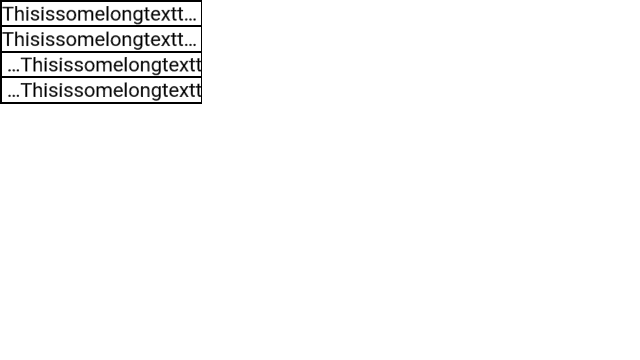
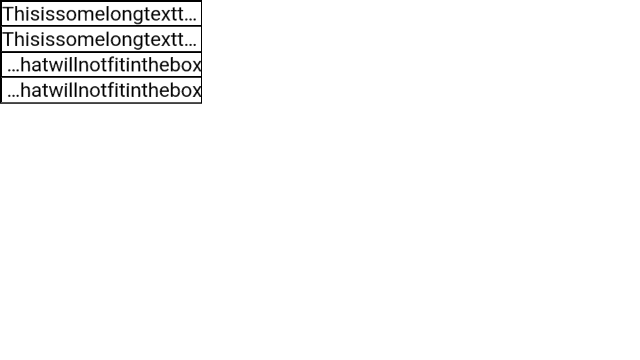
Fix RTL with text-overflow: ellipsis
This fixes the issue where overflow text for dir=rtl truncates
the end of the segment, when it should truncate the start. This
also rebaselines any tests affected by this issue, bringing
Cobalt's expected output in line with Chrome's, and makes sure
that there are no additional regressions.

b/165046947

(cherry picked from commit 2ff3badaeccf9a5a6ba6a1fb0d2f6888f2c005ff)

Changed region(s): [[0.0, 0.0917, 0.3125, 0.3056], [0.1875, 0.0306, 0.2812, 0.0611]]

diff --git a/cobalt/layout/paragraph.cc b/cobalt/layout/paragraph.cc
@@ -125,17 +125,22 @@ int32 Paragraph::AppendCodePoint(CodePoint code_point) {
   return start_position;
 }
 
-bool Paragraph::FindBreakPosition(const scoped_refptr<dom::FontList>& used_font,
-                                  int32 start_position, int32 end_position,
-                                  LayoutUnit available_width,
-                                  bool should_collapse_trailing_white_space,
-                                  bool allow_overflow,
-                                  Paragraph::BreakPolicy break_policy,
-                                  int32* break_position,
-                                  LayoutUnit* break_width) {
+bool Paragraph::FindBreakPosition(
+    BaseDirection direction, bool should_attempt_to_wrap,
+    const scoped_refptr<dom::FontList>& used_font, int32 start_position,
+    int32 end_position, LayoutUnit available_width,
+    bool should_collapse_trailing_white_space, bool allow_overflow,
+    Paragraph::BreakPolicy break_policy, int32* break_position,
+    LayoutUnit* break_width) {
   DCHECK(is_closed_);
 
-  *break_position = start_position;
+  DCHECK(direction == base_direction_);
+  if (AreInlineAndScriptDirectionsTheSame(direction, start_position) ||
+      should_attempt_to_wrap) {
+    *break_position = start_position;
+  } else {
+    *break_position = end_position;
+  }
   *break_width = LayoutUnit();
 
   // If overflow isn't allowed and there is no available width, then there is
@@ -165,9 +170,10 @@ bool Paragraph::FindBreakPosition(const scoped_refptr<dom::FontList>& used_font,
     // |break_width| will be updated with the position of the last available
     // break position.
     FindIteratorBreakPosition(
-        used_font, line_break_iterator_, start_position, end_position,
-        available_width, should_collapse_trailing_white_space,
-        allow_normal_overflow, break_position, break_width);
+        direction, should_attempt_to_wrap, used_font, line_break_iterator_,
+        start_position, end_position, available_width,
+        should_collapse_trailing_white_space, allow_normal_overflow,
+        break_position, break_width);
   }
 
   // If break word is the break policy, attempt to break unbreakable "words" at
@@ -177,20 +183,39 @@ bool Paragraph::FindBreakPosition(const scoped_refptr<dom::FontList>& used_font,
   if (break_policy == kBreakPolicyBreakWord) {
     // Only continue allowing overflow if the break position has not moved from
     // start, meaning that no normal break positions were found.
-    allow_overflow = allow_overflow && (*break_position == start_position);
+    if (AreInlineAndScriptDirectionsTheSame(direction, start_position) ||
+        should_attempt_to_wrap) {
+      allow_overflow = allow_overflow && (*break_position == start_position);
+    } else {
+      allow_overflow = allow_overflow && (*break_position == end_position);
+    }
 
     // Find the last available break-word break position. |break_position| and
     // |break_width| will be updated with the position of the last available
     // break position. The search begins at the location of the last normal
     // break position that fit within the available width.
-    FindIteratorBreakPosition(
-        used_font, character_break_iterator_, *break_position, end_position,
-        available_width, false, allow_overflow, break_position, break_width);
+    if (AreInlineAndScriptDirectionsTheSame(direction, start_position) ||
+        should_attempt_to_wrap) {
+      FindIteratorBreakPosition(direction, should_attempt_to_wrap, used_font,
+                                character_break_iterator_, *break_position,
+                                end_position, available_width, false,
+                                allow_overflow, break_position, break_width);
+    } else {
+      FindIteratorBreakPosition(direction, should_attempt_to_wrap, used_font,
+                                character_break_iterator_, start_position,
+                                *break_position, available_width, false,
+                                allow_overflow, break_position, break_width);
+    }
   }
 
   // No usable break position was found if the break position has not moved
   // from the start position.
-  return *break_position > start_position;
+  if (AreInlineAndScriptDirectionsTheSame(direction, start_position) ||
+      should_attempt_to_wrap) {
+    return *break_position > start_position;
+  } else {
+    return *break_position < end_position;
+  }
 }
 
 int32 Paragraph::GetNextBreakPosition(int32 position,
@@ -268,6 +293,12 @@ bool Paragraph::IsRTL(int32 position) const {
   return (GetBidiLevel(position) % 2) == 1;
 }
 
+bool Paragraph::AreInlineAndScriptDirectionsTheSame(BaseDirection direction,
+                                                    int32 position) const {
+  return ((direction == kLeftToRightBaseDirection && !IsRTL(position)) ||
+          (direction == kRightToLeftBaseDirection && IsRTL(position)));
+}
+
 bool Paragraph::IsCollapsibleWhiteSpace(int32 position) const {
   // Only check for the space character. Other collapsible white space
   // characters will have already been converted into the space characters and
@@ -338,6 +369,7 @@ icu::BreakIterator* Paragraph::GetBreakIterator(BreakPolicy break_policy) {
 }
 
 void Paragraph::FindIteratorBreakPosition(
+    BaseDirection direction, bool should_attempt_to_wrap,
     const scoped_refptr<dom::FontList>& used_font,
     icu::BreakIterator* const break_iterator, int32 start_position,
     int32 end_position, LayoutUnit available_width,
@@ -347,19 +379,37 @@ void Paragraph::FindIteratorBreakPosition(
   // position. Continue until TryIncludeSegmentWithinAvailableWidth() returns
   // false, indicating that no more segments can be included.
   break_iterator->setText(unicode_text_);
-  for (int32 segment_end = break_iterator->following(start_position);
-       segment_end != icu::BreakIterator::DONE && segment_end < end_position;
-       segment_end = break_iterator->next()) {
-    if (!TryIncludeSegmentWithinAvailableWidth(
-            used_font, *break_position, segment_end, available_width,
-            should_collapse_trailing_white_space, &allow_overflow,
-            break_position, break_width)) {
-      break;
+  if (AreInlineAndScriptDirectionsTheSame(direction, start_position) ||
+      should_attempt_to_wrap) {
+    for (int32 segment_end = break_iterator->following(start_position);
+         segment_end != icu::BreakIterator::DONE && segment_end < end_position;
+         segment_end = break_iterator->next()) {
+      if (!TryIncludeSegmentWithinAvailableWidth(
+              direction, should_attempt_to_wrap, used_font, *break_position,
+              segment_end, available_width,
+              should_collapse_trailing_white_space, &allow_overflow,
+              break_position, break_width)) {
+        break;
+      }
+    }
+  } else {
+    for (int32 segment_begin = break_iterator->preceding(end_position);
+         segment_begin != icu::BreakIterator::DONE &&
+         segment_begin > start_position;
+         segment_begin = break_iterator->previous()) {
+      if (!TryIncludeSegmentWithinAvailableWidth(
+              direction, should_attempt_to_wrap, used_font, segment_begin,
+              *break_position, available_width,
+              should_collapse_trailing_white_space, &allow_overflow,
+              break_position, break_width)) {
+        break;
+      }
     }
   }
 }
 
 bool Paragraph::TryIncludeSegmentWithinAvailableWidth(
+    BaseDirection direction, bool should_attempt_to_wrap,
     const scoped_refptr<dom::FontList>& used_font, int32 segment_start,
     int32 segment_end, LayoutUnit available_width,
     bool should_collapse_trailing_white_space, bool* allow_overflow,
@@ -388,7 +438,12 @@ bool Paragraph::TryIncludeSegmentWithinAvailableWidth(
     return false;
   }
 
-  *break_position = segment_end;
+  if (AreInlineAndScriptDirectionsTheSame(direction, segment_start) ||
+      should_attempt_to_wrap) {
+    *break_position = segment_end;
+  } else {
+    *break_position = segment_start;
+  }
   *break_width += segment_width;
 
   if (*allow_overflow) {

diff --git a/cobalt/layout/text_box.cc b/cobalt/layout/text_box.cc
@@ -42,7 +42,9 @@ TextBox::TextBox(const scoped_refptr<cssom::CSSComputedStyleDeclaration>&
       paragraph_(paragraph),
       text_start_position_(text_start_position),
       text_end_position_(text_end_position),
+      truncated_text_start_position_(text_start_position),
       truncated_text_end_position_(text_end_position),
+      previous_truncated_text_start_position_(text_start_position),
       previous_truncated_text_end_position_(text_end_position),
       truncated_text_offset_from_left_(0),
       used_font_(used_style_provider->GetUsedFontList(
@@ -237,12 +239,16 @@ bool TextBox::DoesFulfillEllipsisPlacementRequirement() const {
 }
 
 void TextBox::DoPreEllipsisPlacementProcessing() {
+  previous_truncated_text_start_position_ = truncated_text_start_position_;
   previous_truncated_text_end_position_ = truncated_text_end_position_;
+  truncated_text_start_position_ = text_start_position_;
   truncated_text_end_position_ = text_end_position_;
 }
 
 void TextBox::DoPostEllipsisPlacementProcessing() {
-  if (previous_truncated_text_end_position_ != truncated_text_end_position_) {
+  if (previous_truncated_text_start_position_ !=
+          truncated_text_start_position_ ||
+      previous_truncated_text_end_position_ != truncated_text_end_position_) {
     InvalidateRenderTreeNodesOfBoxAndAncestors();
   }
 }
@@ -397,7 +403,7 @@ void TextBox::RenderAndAnimateContent(
     // color is animated, in which case it could become non-transparent.
     if (used_color.a() > 0.0f || is_color_animated ||
         text_shadow != cssom::KeywordValue::GetNone()) {
-      int32 text_start_position = GetNonCollapsedTextStartPosition();
+      int32 text_start_position = GetVisibleTextStartPosition();
       int32 text_length = GetVisibleTextLength();
 
       scoped_refptr<render_tree::GlyphBuffer> glyph_buffer =
@@ -481,7 +487,12 @@ void TextBox::DoPlaceEllipsisOrProcessPlacedEllipsis(
   // If the ellipsis has already been placed, then the text is fully truncated
   // by the ellipsis.
   if (*is_placed) {
-    truncated_text_end_position_ = text_start_position_;
+    if (paragraph_->AreInlineAndScriptDirectionsTheSame(base_direction,
+                                                        text_start_position_)) {
+      truncated_text_end_position_ = text_start_position_;
+    } else {
+      truncated_text_start_position_ = text_end_position_;
+    }
     return;
   }
 
@@ -510,8 +521,8 @@ void TextBox::DoPlaceEllipsisOrProcessPlacedEllipsis(
   // text box. Otherwise, it can only appear after the first character
   // (https://www.w3.org/TR/css3-ui/#propdef-text-overflow).
   if (paragraph_->FindBreakPosition(
-          used_font_, start_position, end_position, desired_content_offset,
-          false, !(*is_placement_requirement_met),
+          base_direction, false, used_font_, start_position, end_position,
+          desired_content_offset, false, !(*is_placement_requirement_met),
           Paragraph::kBreakPolicyBreakWord, &found_position, &found_offset)) {
     // A usable break position was found. Calculate the placed offset using the
     // the break position's distance from the content box's start edge. In the
@@ -525,7 +536,12 @@ void TextBox::DoPlaceEllipsisOrProcessPlacedEllipsis(
     } else {
       *placed_offset = content_box_start_offset + found_offset;
     }
-    truncated_text_end_position_ = found_position;
+    if (paragraph_->AreInlineAndScriptDirectionsTheSame(base_direction,
+                                                        start_position)) {
+      truncated_text_end_position_ = found_position;
+    } else {
+      truncated_text_start_position_ = found_position;
+    }
     // An acceptable break position was not found. If the placement requirement
     // was already met prior to this box, then the ellipsis doesn't require a
     // character from this box to appear prior to its position, so simply place
@@ -533,7 +549,12 @@ void TextBox::DoPlaceEllipsisOrProcessPlacedEllipsis(
   } else if (is_placement_requirement_met) {
     *placed_offset =
         GetMarginBoxStartEdgeOffsetFromContainingBlock(base_direction);
-    truncated_text_end_position_ = text_start_position_;
+    if (paragraph_->AreInlineAndScriptDirectionsTheSame(base_direction,
+                                                        start_position)) {
+      truncated_text_end_position_ = text_start_position_;
+    } else {
+      truncated_text_start_position_ = text_end_position_;
+    }
     // The placement requirement has not already been met. Given that an
     // acceptable break position was not found within the text, the ellipsis can
     // only be placed at the end edge of the box.
@@ -603,7 +624,8 @@ int32 TextBox::GetWrapPosition(WrapAtPolicy wrap_at_policy,
       // fits within the available width. Overflow is never allowed.
       LayoutUnit wrap_width;
       if (!paragraph_->FindBreakPosition(
-              used_font_, start_position, text_end_position_, available_width,
+              paragraph_->base_direction(), true, used_font_, start_position,
+              text_end_position_, available_width,
               should_collapse_trailing_white_space, false, break_policy,
               &wrap_position, &wrap_width)) {
         // If no break position is found, but the line existence is already
@@ -720,19 +742,24 @@ std::string TextBox::GetNonCollapsibleText() const {
                                            Paragraph::kVisualTextOrder);
 }
 
+int32 TextBox::GetVisibleTextStartPosition() const {
+  return std::max(GetNonCollapsedTextStartPosition(),
+                  truncated_text_start_position_);
+}
+
 int32 TextBox::GetVisibleTextEndPosition() const {
   return std::min(GetNonCollapsedTextEndPosition(),
                   truncated_text_end_position_);
 }
 
 int32 TextBox::GetVisibleTextLength() const {
-  return GetVisibleTextEndPosition() - GetNonCollapsedTextStartPosition();
+  return GetVisibleTextEndPosition() - GetVisibleTextStartPosition();
 }
 
 bool TextBox::HasVisibleText() const { return GetVisibleTextLength() > 0; }
 
 std::string TextBox::GetVisibleText() const {
-  return paragraph_->RetrieveUtf8SubString(GetNonCollapsedTextStartPosition(),
+  return paragraph_->RetrieveUtf8SubString(GetVisibleTextStartPosition(),
                                            GetVisibleTextEndPosition(),
                                            Paragraph::kVisualTextOrder);
 }

diff --git a/cobalt/layout/paragraph.h b/cobalt/layout/paragraph.h
@@ -111,7 +111,8 @@ class Paragraph : public base::RefCounted<Paragraph> {
   // substring coming before |break_position|.
   //
   // Returns false if no usable break position was found.
-  bool FindBreakPosition(const scoped_refptr<dom::FontList>& used_font,
+  bool FindBreakPosition(BaseDirection direction, bool should_attempt_to_wrap,
+                         const scoped_refptr<dom::FontList>& used_font,
                          int32 start_position, int32 end_position,
                          LayoutUnit available_width,
                          bool should_collapse_trailing_white_space,
@@ -136,6 +137,8 @@ class Paragraph : public base::RefCounted<Paragraph> {
 
   int GetBidiLevel(int32 position) const;
   bool IsRTL(int32 position) const;
+  bool AreInlineAndScriptDirectionsTheSame(BaseDirection direction,
+                                           int32 position) const;
   bool IsCollapsibleWhiteSpace(int32 position) const;
   bool GetNextRunPosition(int32 position, int32* next_run_position) const;
   int32 GetTextEndPosition() const;
@@ -174,7 +177,9 @@ class Paragraph : public base::RefCounted<Paragraph> {
   // that first overflowing segment will be included. The parameter
   // |break_width| indicates the width of the portion of the substring coming
   // before |break_position|.
-  void FindIteratorBreakPosition(const scoped_refptr<dom::FontList>& used_font,
+  void FindIteratorBreakPosition(BaseDirection direction,
+                                 bool should_attempt_to_wrap,
+                                 const scoped_refptr<dom::FontList>& used_font,
                                  icu::BreakIterator* const break_iterator,
                                  int32 start_position, int32 end_position,
                                  LayoutUnit available_width,
@@ -197,6 +202,7 @@ class Paragraph : public base::RefCounted<Paragraph> {
   // of false does not guarantee that the segment was not included, but simply
   // that no additional segments can be included.
   bool TryIncludeSegmentWithinAvailableWidth(
+      BaseDirection direction, bool should_attempt_to_wrap,
       const scoped_refptr<dom::FontList>& used_font, int32 start_position,
       int32 end_position, LayoutUnit available_width,
       bool should_collapse_trailing_white_space, bool* allow_overflow,

diff --git a/cobalt/layout/text_box.h b/cobalt/layout/text_box.h
@@ -133,6 +133,7 @@ class TextBox : public Box {
   int32 GetNonCollapsibleTextLength() const;
   std::string GetNonCollapsibleText() const;
 
+  int32 GetVisibleTextStartPosition() const;
   int32 GetVisibleTextEndPosition() const;
   int32 GetVisibleTextLength() const;
   bool HasVisibleText() const;
@@ -145,7 +146,7 @@ class TextBox : public Box {
   const scoped_refptr<Paragraph> paragraph_;
   // The position within the paragraph where the text contained in this box
   // begins.
-  const int32 text_start_position_;
+  int32 text_start_position_;
   // The position within the paragraph where the text contained in this box
   // ends.
   int32 text_end_position_;
@@ -154,11 +155,13 @@ class TextBox : public Box {
   // "Implementations must hide characters and atomic inline-level elements at
   // the applicable edge(s) of the line as necessary to fit the ellipsis."
   //   https://www.w3.org/TR/css3-ui/#propdef-text-overflow
+  int32 truncated_text_start_position_;
   int32 truncated_text_end_position_;
-  // Tracking of the previous value of |truncated_text_end_position_|, which
+  // Tracking of the previous value of the truncated text position, which
   // allows for determination of whether or not the value changed during
   // ellipsis placement. When this occurs, the cached render tree nodes of this
   // box and its ancestors are invalidated.
+  int32 previous_truncated_text_start_position_;
   int32 previous_truncated_text_end_position_;
   // The horizontal offset to apply to rendered text as a result of an ellipsis
   // truncating the text. This value can be non-zero when the text box is in a
